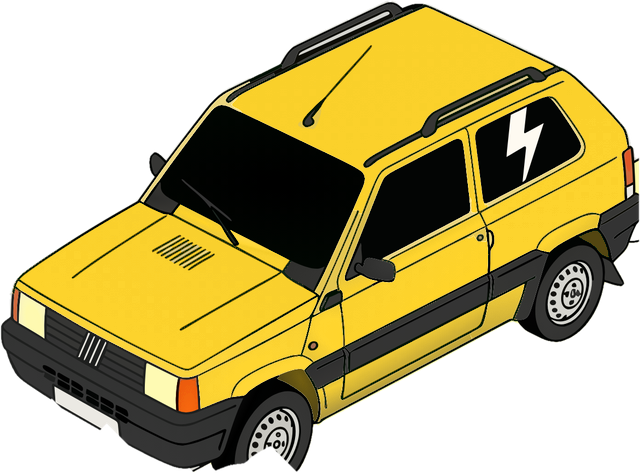
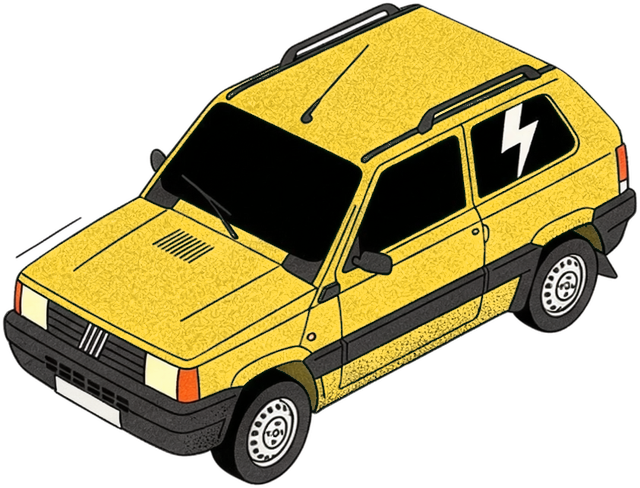
Intro: auto dal pacchetto di asset (ruote corrette) e nuvole di fumo
Claude-Session: https://claude.ai/code/session_01EzpywHzx5cdMRM3jzuT31c

diff --git a/src/components/IntroAnimation.tsx b/src/components/IntroAnimation.tsx
@@ -46,8 +46,12 @@ const MINI = {
   gialla: require('../../assets/intro/mini-gialla.png'),
   menta: require('../../assets/intro/mini-menta.png'),
 };
-const PANDA_ASPECT = 882 / 1193;
-const MINI_ASPECT = 884 / 1113;
+const PANDA_ASPECT = 488 / 640;
+const MINI_ASPECT = 477 / 640;
+const SMOKE = [
+  { src: require('../../assets/intro/smoke0.png'), aspect: 289 / 520, tip: { x: 0.01, y: 0.97 } },
+  { src: require('../../assets/intro/smoke1.png'), aspect: 265 / 272, tip: { x: 0.015, y: 0.96 } },
+];
 const GRAIN = require('../../assets/images/grain.png');
 const LOGO = require('../../assets/images/logo.png');
 
@@ -168,8 +172,8 @@ export function IntroAnimation({ onDone }: { onDone: () => void }) {
   const mw = pw * 0.94;
   const cars = [
     // la Panda sulla corsia più in alto, la Mini su quella più in basso e un po' più indietro
-    { key: 'panda', src: look.panda, w: pw, h: pw * PANDA_ASPECT, n: -half * 0.42, TS: [0.02, 0.3, 0.6, 0.9], lag: 0 },
-    { key: 'mini', src: look.mini, w: mw, h: mw * MINI_ASPECT, n: half * 0.5, TS: [0.06, 0.36, 0.64, 0.96], lag: 0.12 },
+    { key: 'panda', src: look.panda, w: pw, h: pw * PANDA_ASPECT, n: -half * 0.42, TS: [0.02, 0.3, 0.6, 0.9], lag: 0, smoke: SMOKE[0], smokeW: pw * 1.6, rear: { x: 0.93, y: 0.52 } },
+    { key: 'mini', src: look.mini, w: mw, h: mw * MINI_ASPECT, n: half * 0.5, TS: [0.06, 0.36, 0.64, 0.96], lag: 0.12, smoke: SMOKE[1], smokeW: mw * 1.0, rear: { x: 0.96, y: 0.34 } },
   ].map((c, i) => {
     const s = lerp(t, c.TS, [-D, -c.w * (0.1 + c.lag), c.w * (0.06 - c.lag), D]);
     const base = at(0, c.n);
@@ -218,6 +222,24 @@ export function IntroAnimation({ onDone }: { onDone: () => void }) {
 
         {cars.map((car) => (
           <View key={car.key} style={StyleSheet.absoluteFill} pointerEvents="none">
+            {/* nuvola di fumo che esce dal retro e si allarga */}
+            <Animated.Image
+              source={car.smoke.src}
+              style={{
+                position: 'absolute',
+                left: car.rear.x * car.w - car.smoke.tip.x * car.smokeW,
+                top: car.rear.y * car.h - car.smoke.tip.y * car.smokeW * car.smoke.aspect,
+                width: car.smokeW,
+                height: car.smokeW * car.smoke.aspect,
+                transformOrigin: `${car.smoke.tip.x * 100}% ${car.smoke.tip.y * 100}%`,
+                opacity: lerp(t, [car.TS[0] + 0.06, car.TS[0] + 0.14, car.TS[3] - 0.08, car.TS[3]], [0, 1, 1, 0]),
+                transform: [
+                  { translateX: car.x },
+                  { translateY: car.y },
+                  { scale: lerp(t, [car.TS[0] + 0.06, car.TS[1] + 0.05, car.TS[2], car.TS[3]], [0.25, 1, 1.08, 1.25]) },
+                ],
+              }}
+            />
             {whoosh.map((l, i) => {
               const len = l.len * car.w;
               const ax = -DIR.x * car.w * l.off + NRM.x * l.n * car.h;
